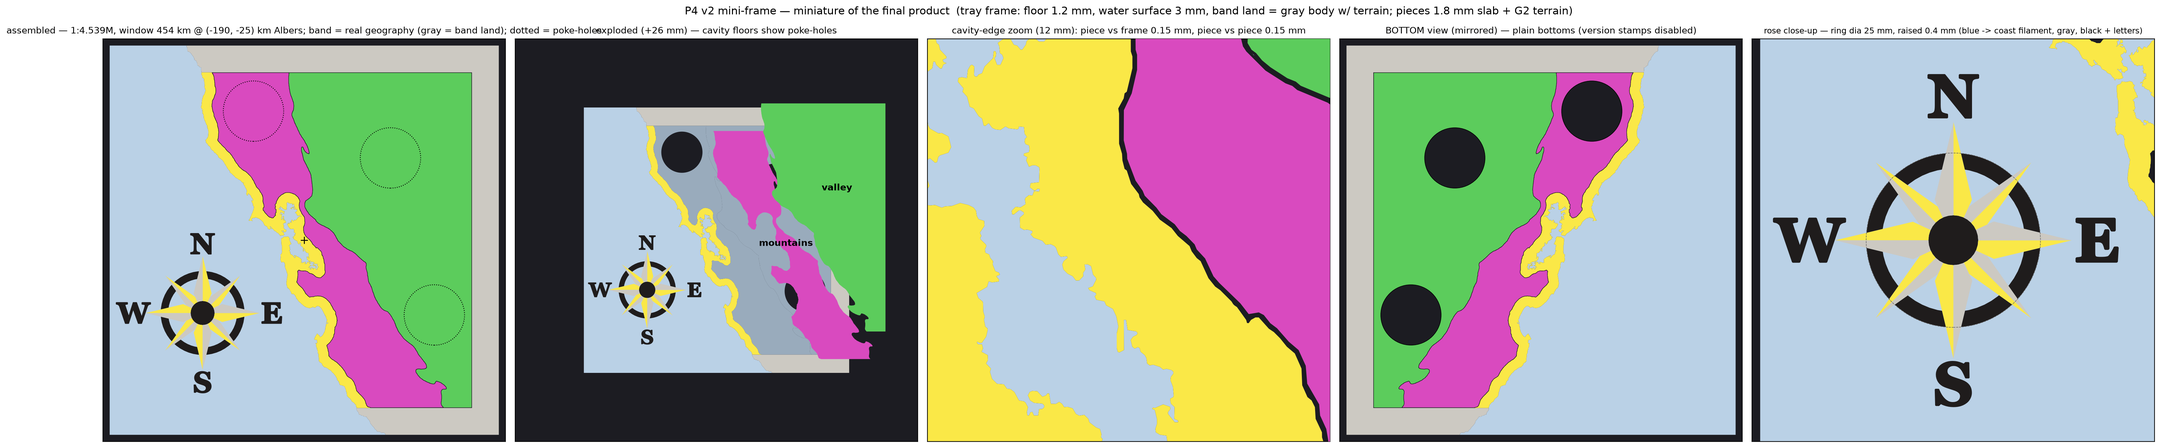
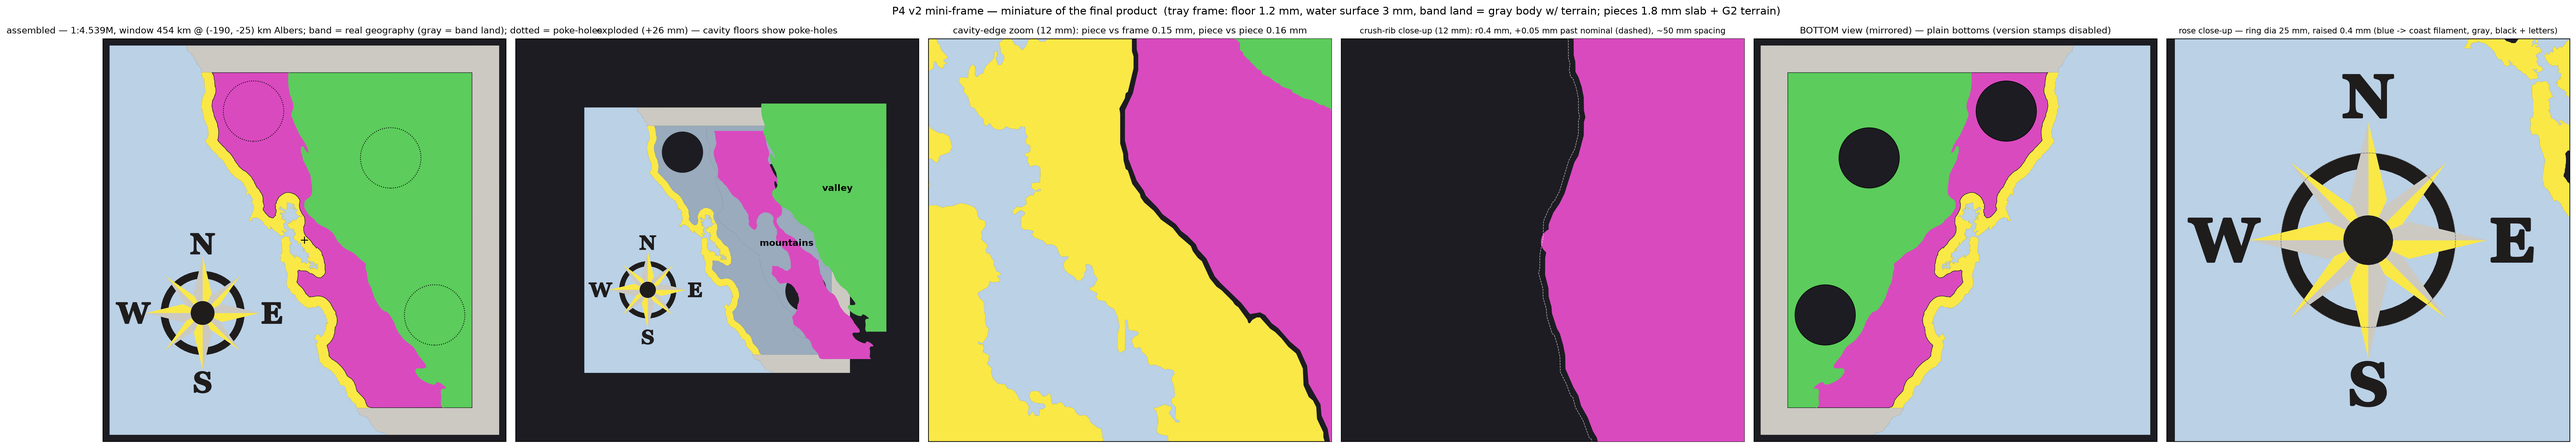
Vertical-printing question logged (decide at rehearsal); valley's natural split = Sacramento/San Joaquin at the Delta
Claude-Session: https://claude.ai/code/session_01UmyBij4BnZ6xjWXXCv2QxT

diff --git a/pipeline/p4_bay_coupon.py b/pipeline/p4_bay_coupon.py
@@ -471,6 +471,67 @@ def clean_piece(poly, name, notes):
     return kept[0]
 
 
+def _outward_normal(poly, p, tangent):
+    """Unit normal at boundary point `p` of `poly`, pointing OUT of the
+    polygon (tangent need not be unit or a particular orientation --
+    tested with a tiny probe and flipped if it lands inside)."""
+    tl = np.hypot(tangent[0], tangent[1])
+    if tl < 1e-9:
+        return (1.0, 0.0)
+    tx, ty = tangent[0] / tl, tangent[1] / tl
+    nx, ny = -ty, tx
+    if poly.contains(Point(p.x + 0.01 * nx, p.y + 0.01 * ny)):
+        nx, ny = -nx, -ny
+    return (nx, ny)
+
+
+def add_crush_ribs(piece, nominal, spacing_mm, radius_mm, interference_mm):
+    """Retention crush-ribs (ahl 2026-09-14: pieces must stay seated when
+    the tray is tipped; release is via the finger poke-holes, not a
+    snug piece fit) -- vertical half-cylinder ribs standing proud of
+    `piece`'s (the clearance-cut piece) own wall, spaced ~spacing_mm
+    along the FULL perimeter of `nominal` (the pre-clearance region
+    outline), both frame-facing and piece-facing stretches alike.
+
+    Crest placement is independent of which clearance applied locally:
+    the offset wall sits `clearance_local` inside nominal; a rib
+    protruding (clearance_local + interference_mm) from THAT wall lands
+    at nominal + interference_mm, always -- so every rib is simply a
+    disk of radius `radius_mm` centered (interference_mm - radius_mm)
+    outward from a nominal-boundary sample point (i.e. INSET into the
+    piece by radius_mm - interference_mm when radius_mm > interference_mm,
+    the normal case) and unioned onto `piece`: only the cap beyond
+    piece's own wall becomes new material, a radius_mm-curvature bump
+    whose crest reaches exactly interference_mm past nominal (0 = no
+    ribs). `interference_mm` may be 0 for an enclosed piece's OWN walls
+    -- see ENCLOSED_ZERO_CLEARANCE -- ahl's call was to keep ribs on
+    every piece regardless (the valley still gets ribs against its
+    enclosing neighbor), so this is called uniformly per piece.
+
+    Returns (ribbed_piece, n_ribs)."""
+    if interference_mm <= 0 or radius_mm <= 0:
+        return piece, 0
+    ring = nominal.exterior
+    length = ring.length
+    n = max(3, round(length / spacing_mm))
+    eps = min(0.3, spacing_mm * 0.05)
+    bumps = []
+    for i in range(n):
+        d = (i + 0.5) * length / n
+        p = ring.interpolate(d)
+        p0 = ring.interpolate((d - eps) % length)
+        p1 = ring.interpolate((d + eps) % length)
+        nx, ny = _outward_normal(nominal, p, (p1.x - p0.x, p1.y - p0.y))
+        k = interference_mm - radius_mm
+        bumps.append(Point(p.x + k * nx, p.y + k * ny)
+                    .buffer(radius_mm, quad_segs=16))
+    ribbed = unary_union([piece] + bumps).buffer(0)
+    parts = [g for g in getattr(ribbed, "geoms", [ribbed])
+             if g.geom_type == "Polygon"]
+    parts.sort(key=lambda g: g.area, reverse=True)
+    return parts[0], n
+
+
 def _parts(geom, min_area=0.5):
     return [p for p in getattr(geom, "geoms", [geom])
             if p.geom_type == "Polygon" and p.area >= min_area]
@@ -954,14 +1015,15 @@ def add_poly(ax, geom, color, ec="none", lw=0.0, alpha=1.0, z=1):
                                alpha=alpha, zorder=z))
 
 
-def render_preview(geo, s, tj, holes, stamps, rose=None, rose_c=None):
+def render_preview(geo, s, tj, holes, stamps, ribbed, rib_pt, rose=None,
+                   rose_c=None):
     import matplotlib
     matplotlib.use("Agg")
     import matplotlib.pyplot as plt
 
     water_vis = geo["water_visible"]
     cav_floor = {n: geo[f"{n}_nom"] for n in ("mountains", "valley")}
-    n_panels = 5 if rose is not None else 4
+    n_panels = 6 if rose is not None else 5
     fig, axes = plt.subplots(1, n_panels,
                              figsize=(6.4 * n_panels, 7.2), dpi=200)
     rose_colors = {"coast": tuple(base.COLORS[base.COAST])[:3],
@@ -1022,9 +1084,27 @@ def render_preview(geo, s, tj, holes, stamps, rose=None, rose_c=None):
         ax.set_aspect("equal")
         ax.set_xticks([]), ax.set_yticks([])
 
-    # panel 4: BOTTOM view, mirrored (x flipped) so the debossed version
-    # stamps read the way they do on the flipped printed parts
+    # panel 4: crush-rib close-up (12 mm) -- ribbed piece walls vs the
+    # NOMINAL boundary (dashed) they protrude past by RIB_INTERFERENCE_MM
     ax = axes[3]
+    ax.set_facecolor("#1c1c22")
+    for name in ("mountains", "valley"):
+        rid = {v: k for k, v in REGION_NAME.items()}[name]
+        add_poly(ax, ribbed[name], base.COLORS[rid], z=3)
+        nx, ny = geo[f"{name}_nom"].exterior.xy
+        ax.plot(nx, ny, color="white", lw=0.6, linestyle="--", zorder=6,
+                alpha=0.7)
+    ax.set_xlim(rib_pt.x - 6, rib_pt.x + 6)
+    ax.set_ylim(rib_pt.y - 6, rib_pt.y + 6)
+    ax.set_title(f"crush-rib close-up (12 mm): r{RIB_RADIUS_MM:g} mm, "
+                 f"+{RIB_INTERFERENCE_MM:g} mm past nominal (dashed), "
+                 f"~{RIB_SPACING_MM:g} mm spacing", fontsize=9)
+    ax.set_aspect("equal")
+    ax.set_xticks([]), ax.set_yticks([])
+
+    # panel 5: BOTTOM view, mirrored (x flipped) so the debossed version
+    # stamps read the way they do on the flipped printed parts
+    ax = axes[4]
     ax.set_facecolor("#1c1c22")
     add_poly(ax, water_vis, WATER_RGB)
     add_poly(ax, geo["gray"], GRAY_RGB, z=2)
@@ -1059,8 +1139,8 @@ def render_preview(geo, s, tj, holes, stamps, rose=None, rose_c=None):
     ax.set_xticks([]), ax.set_yticks([])
 
     if rose is not None:
-        # panel 5: rose close-up (raised multi-color relief + letters)
-        ax = axes[4]
+        # panel 6: rose close-up (raised multi-color relief + letters)
+        ax = axes[5]
         ax.set_facecolor("#1c1c22")
         add_poly(ax, water_vis, WATER_RGB)
         add_poly(ax, geo["gray"], GRAY_RGB, z=2)
@@ -1233,16 +1313,15 @@ def main():
     # flanking pieces); must stay >= POKE_MARGIN_MM from the frame
     # cavity wall and fully under the removable-piece union -----------
     piece_nom = {n: geo[f"{n}_nom"] for n in ("mountains", "valley")}
-    cav_union = unary_union(list(piece_nom.values()))
     wall_margin = POKE_D_MM / 2 + POKE_MARGIN_MM
     target_n = {n: 2 for n in piece_nom}   # ~1-2 holes credited per piece
     centers, holes = plan_poke_holes(piece_nom, target_n)
     circles = []
     for pt in centers:
         circ = pt.buffer(POKE_D_MM / 2, quad_segs=24)
-        assert cav_union.contains(circ), \
+        assert cavities.contains(circ), \
             "poke-hole not fully under removable pieces"
-        assert cav_union.boundary.distance(pt) >= wall_margin - 1e-6, \
+        assert cavities.boundary.distance(pt) >= wall_margin - 1e-6, \
             "poke-hole closer than POKE_MARGIN_MM to the frame cavity wall"
         circles.append(circ)
         under = [n for n, pts in holes.items() if any(p is pt for p in pts)]
@@ -1458,9 +1537,14 @@ def main():
     print(f"  3MF layout matches cubes_bambu.3mf: {names == expect}")
 
     print("\nremovable pieces:")
+    ribbed_geo = {}
     for name in ("mountains", "valley"):
         piece = geo[f"{name}_piece"]
-        mesh = solid_mesh(piece, terrain_piece, 0.0,
+        ribbed, n_ribs = add_crush_ribs(piece, geo[f"{name}_nom"],
+                                        RIB_SPACING_MM, RIB_RADIUS_MM,
+                                        RIB_INTERFERENCE_MM)
+        ribbed_geo[name] = ribbed
+        mesh = solid_mesh(ribbed, terrain_piece, 0.0,
                           stamp=stamps.get(name), chamfer=CHAMFER_MM)
         path = OUT_DIR / f"{name}.stl"
         mesh.export(path)
@@ -1473,19 +1557,24 @@ def main():
                   f"{vstamp.DEPTH_MM:g}: {zok}")
         mlw = min_land_width(piece)
         gap_frame = piece.distance(upper_water)
-        other = geo["valley_piece" if name == "mountains"
-                    else "mountains_piece"]
+        other_name = "valley" if name == "mountains" else "mountains"
+        other = geo[f"{other_name}_piece"]
         gap_piece = piece.distance(other)
+        nom_pp = pair_gap_nominal_mm(name, other_name)
         print(f"    min width ~{mlw:.2f} mm; gap vs frame "
               f"{gap_frame:.3f} mm (nominal {CLEARANCE_MM:g}); vs other "
-              f"piece {gap_piece:.3f} mm (nominal {2 * CLEARANCE_PAIR_MM:g})"
-              f"  -> {path}")
+              f"piece {gap_piece:.3f} mm (nominal {nom_pp:g})\n"
+              f"    crush ribs: {n_ribs} x r{RIB_RADIUS_MM:g} mm crest "
+              f"+{RIB_INTERFERENCE_MM:g} mm past nominal  -> {path}")
 
     for n in notes:
         print(f"  note: {n}")
 
     tj = triple_junction_mm(regw)
-    render_preview(geo, s, tj, holes, stamps, rose, rose_c)
+    mnom = geo["mountains_nom"].exterior
+    rib_pt = mnom.interpolate(0.5 * mnom.length)
+    render_preview(geo, s, tj, holes, stamps, ribbed_geo, rib_pt, rose,
+                  rose_c)
     print(f"\nall bodies/pieces watertight: {ok}")
     print("canonical Makefile output for this stage: out/p4_mini/frame.3mf "
           "(replaces out/p4_bay_420mm/frame.stl; old p4_bay_* dirs are "

diff --git a/pipeline/p5_final.py b/pipeline/p5_final.py
@@ -222,19 +222,31 @@ def main():
     geo["water_visible"] = upper_water.difference(
         geo["coast_nom"]).difference(geo["gray"])
 
-    # ---- poke-holes (2-3 per piece by cavity size) ----------------------
-    holes, circles = {}, []
-    for name, _, _ in PIECES:
-        nom = geo[f"{name}_nom"]
-        n = 3 if nom.area > POKE3_AREA_MM2 else 2
-        holes[name] = p4.poke_points(nom, n=n)
-        for pt in holes[name]:
-            circ = pt.buffer(p4.POKE_D_MM / 2, quad_segs=24)
-            assert nom.contains(circ), f"poke-hole under a wall ({name})"
-            circles.append(circ)
-            ax, ay = to_albers_km(pt.x, pt.y)
-            print(f"  poke-hole {name}: ({pt.x:.1f}, {pt.y:.1f}) mm = "
-                  f"Albers ({ax:.0f}, {ay:.0f}) km")
+    # ---- poke-holes: finger-sized (18 mm), THE disassembly mechanism
+    # (ahl 2026-09-14), 2-3 per piece by cavity size, at least one
+    # straddling each major piece-piece seam -- may span a seam (serves
+    # both flanking pieces); must stay >= POKE_MARGIN_MM from the frame
+    # cavity wall and fully under the removable-piece union -----------
+    piece_nom = {name: geo[f"{name}_nom"] for name, _, _ in PIECES}
+    target_n = {name: (3 if piece_nom[name].area > POKE3_AREA_MM2 else 2)
+                for name in piece_nom}
+    centers, holes = p4.plan_poke_holes(piece_nom, target_n)
+    circles = []
+    for pt in centers:
+        circ = pt.buffer(p4.POKE_D_MM / 2, quad_segs=24)
+        assert cavities.contains(circ), \
+            "poke-hole not fully under removable pieces"
+        wall_margin = p4.POKE_D_MM / 2 + p4.POKE_MARGIN_MM
+        assert cavities.boundary.distance(pt) >= wall_margin - 1e-6, \
+            "poke-hole closer than POKE_MARGIN_MM to the frame cavity wall"
+        circles.append(circ)
+        under = [n for n, pts in holes.items() if any(p is pt for p in pts)]
+        ax, ay = to_albers_km(pt.x, pt.y)
+        print(f"  poke-hole {'+'.join(under):24s} ({pt.x:.1f}, {pt.y:.1f}) "
+              f"mm = Albers ({ax:.0f}, {ay:.0f}) km"
+              + ("  [seam hole]" if len(under) > 1 else ""))
+    print("  hole count: " + ", ".join(
+        f"{name}: {len(holes[name])}" for name in piece_nom))
     for i in range(len(circles)):
         for j in range(i + 1, len(circles)):
             assert circles[i].distance(circles[j]) > 1.0
@@ -418,9 +430,14 @@ def main():
 
     print("\nremovable pieces:")
     piece_meshes = {}
+    ribbed_geo = {}
     for name, _, _ in PIECES:
         piece = geo[f"{name}_piece"]
-        mesh = p4.solid_mesh(piece, terrain_piece, 0.0,
+        ribbed, n_ribs = p4.add_crush_ribs(
+            piece, geo[f"{name}_nom"], p4.RIB_SPACING_MM, p4.RIB_RADIUS_MM,
+            p4.RIB_INTERFERENCE_MM)
+        ribbed_geo[name] = ribbed
+        mesh = p4.solid_mesh(ribbed, terrain_piece, 0.0,
                              stamp=stamps.get(name),
                              chamfer=p4.CHAMFER_MM)
         path = OUT_DIR / f"{name}.stl"
@@ -434,17 +451,30 @@ def main():
             ok &= zok
             szn = f"stamp z {zlev} exact: {zok}; "
         gap = piece.distance(upper_water)
-        others = [geo[f"{o}_piece"] for o, _, _ in PIECES if o != name]
-        gap_pp = min(piece.distance(o) for o in others)
         print(f"    {szn}min width "
               f"~{p4.min_land_width(piece):.2f} mm; gap vs frame "
-              f"{gap:.3f} (nom {p4.CLEARANCE_MM:g}); vs pieces "
-              f"{gap_pp:.3f} (nom {2 * p4.CLEARANCE_PAIR_MM:g})  -> {path}")
+              f"{gap:.3f} (nom {p4.CLEARANCE_MM:g}); crush ribs: "
+              f"{n_ribs} x r{p4.RIB_RADIUS_MM:g} mm crest "
+              f"+{p4.RIB_INTERFERENCE_MM:g} mm past nominal  -> {path}")
+
+    print("\npiece-piece seam gaps (only nominally-adjacent pairs):")
+    pnames = [n for n, _, _ in PIECES]
+    for i in range(len(pnames)):
+        for j in range(i + 1, len(pnames)):
+            a, b = pnames[i], pnames[j]
+            if geo[f"{a}_nom"].distance(geo[f"{b}_nom"]) > 1e-6:
+                continue                        # not a shared seam
+            gap_ab = geo[f"{a}_piece"].distance(geo[f"{b}_piece"])
+            nom_ab = p4.pair_gap_nominal_mm(a, b)
+            print(f"    {a}-{b}: {gap_ab:.3f} mm (nom {nom_ab:g})")
 
     for n in notes:
         print(f"  note: {n}")
 
-    render_preview(geo, s, holes, stamps, rose, rose_c, EW_MM)
+    mnom = geo["mountains_nom"].exterior
+    rib_pt = mnom.interpolate(0.5 * mnom.length)
+    render_preview(geo, s, holes, stamps, ribbed_geo, rib_pt, rose, rose_c,
+                  EW_MM)
     print(f"\nall bodies/pieces watertight + checks: {ok}")
     if not ok:
         sys.exit(1)
@@ -456,7 +486,8 @@ def main():
 
 
 # ----------------------------------------------------------------- preview
-def render_preview(geo, s, holes, stamps, rose, rose_c, ew_mm):
+def render_preview(geo, s, holes, stamps, ribbed, rib_pt, rose, rose_c,
+                   ew_mm):
     import matplotlib
     matplotlib.use("Agg")
     import matplotlib.pyplot as plt
@@ -464,7 +495,7 @@ def render_preview(geo, s, holes, stamps, rose, rose_c, ew_mm):
     from shapely import affinity
 
     ratio = ew_mm / NS_MM
-    fig, axes = plt.subplots(1, 4, figsize=(4 * 7.0 * ratio + 3, 8.0),
+    fig, axes = plt.subplots(1, 5, figsize=(5 * 7.0 * ratio + 3, 8.0),
                              dpi=170)
 
     def draw_map(ax, pieces_exploded=False):
@@ -543,8 +574,23 @@ def render_preview(geo, s, holes, stamps, rose, rose_c, ew_mm):
                  "BOTTOM (mirrored) — plain bottoms (stamps disabled)",
                  fontsize=10)
 
-    # 4: rose close-up
+    # 4: crush-rib close-up (14 mm) -- ribbed piece walls vs the NOMINAL
+    # boundary (dashed) they protrude past by RIB_INTERFERENCE_MM
     ax = axes[3]
+    ax.set_facecolor("#1c1c22")
+    for name, rid, _ in PIECES:
+        p4.add_poly(ax, ribbed[name], base.COLORS[rid], z=3)
+        nx, ny = geo[f"{name}_nom"].exterior.xy
+        ax.plot(nx, ny, color="white", lw=0.6, linestyle="--", zorder=6,
+                alpha=0.7)
+    ax.set_xlim(rib_pt.x - 7, rib_pt.x + 7)
+    ax.set_ylim(rib_pt.y - 7, rib_pt.y + 7)
+    ax.set_title(f"crush-rib close-up (14 mm): r{p4.RIB_RADIUS_MM:g} mm, "
+                 f"+{p4.RIB_INTERFERENCE_MM:g} mm past nominal (dashed), "
+                 f"~{p4.RIB_SPACING_MM:g} mm spacing", fontsize=9)
+
+    # 5: rose close-up
+    ax = axes[4]
     draw_map(ax)
     draw_rose(ax)
     if rose is not None:

diff --git a/NOTES.md b/NOTES.md
@@ -316,6 +316,17 @@ FINAL 225 x 250 FRAME ONLY
   REAL frame colors (validates the actual 4-color result). The final
   mountains gets a full-size DRESS REHEARSAL in a plentiful color
   before the one-shot brown print.
+- **VERTICAL PRINTING of pieces (open, decide at the rehearsal):** ahl
+  previously printed a similar-size CA topo vertically (brim + some
+  supports) with much better terrain resolution (slope becomes a side
+  wall: XY resolution instead of 0.2 mm z-terracing). Cautions agreed:
+  plate-contact edge is a fit surface (EF squish); texture mismatch with
+  the flat-printed frame terrain is ACCEPTED (frame = context, lower
+  res OK); ribs/overhang handling could be messy. If a flat plate edge
+  is needed, split the valley at its NATURAL seam — Sacramento Valley /
+  San Joaquin Valley at the Delta — so the cut reads as geography (and
+  could become a real fifth piece). Rehearsal print decides; flat
+  printing may be good enough.
 
 ## Print sessions
 
